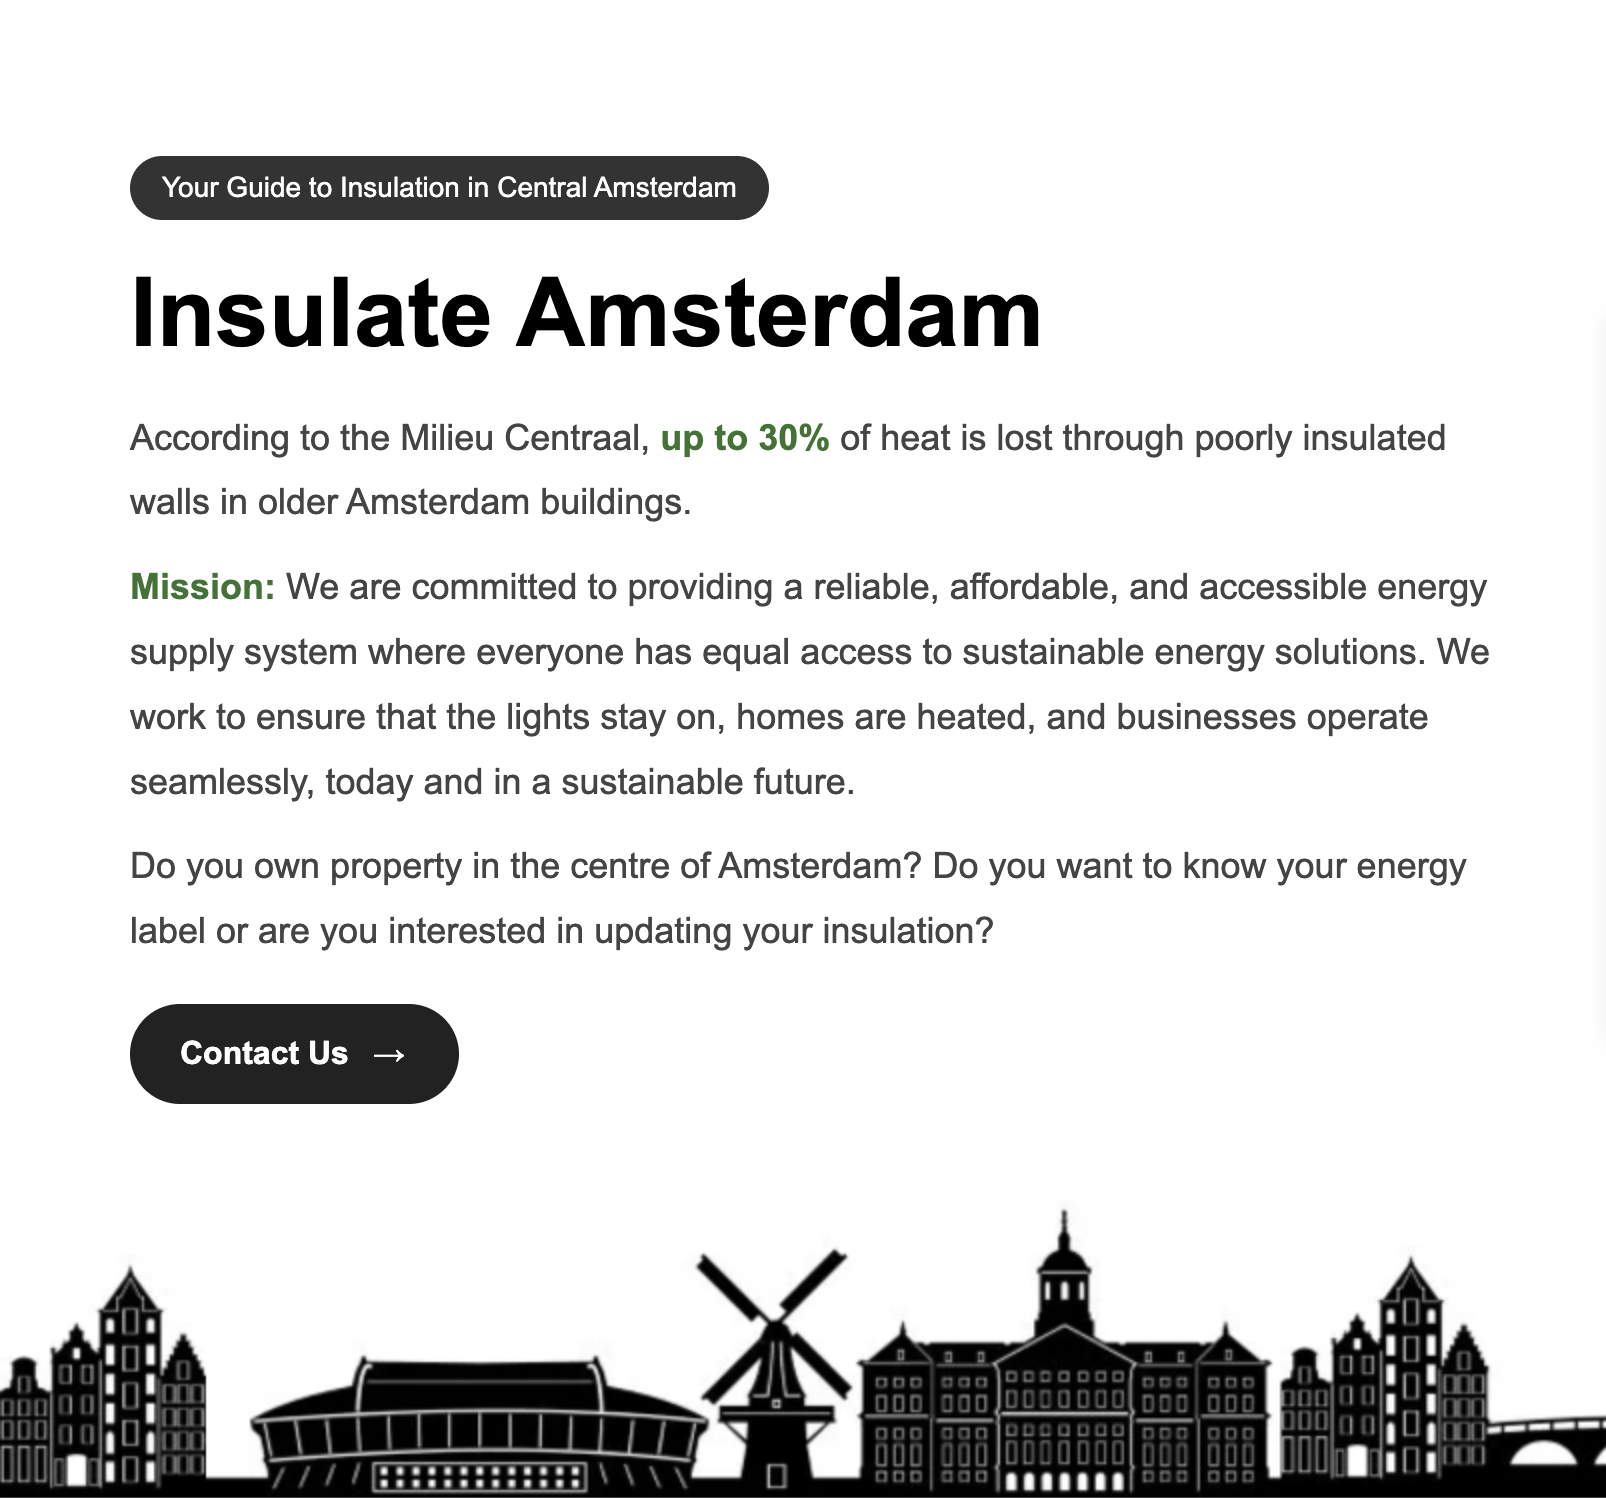
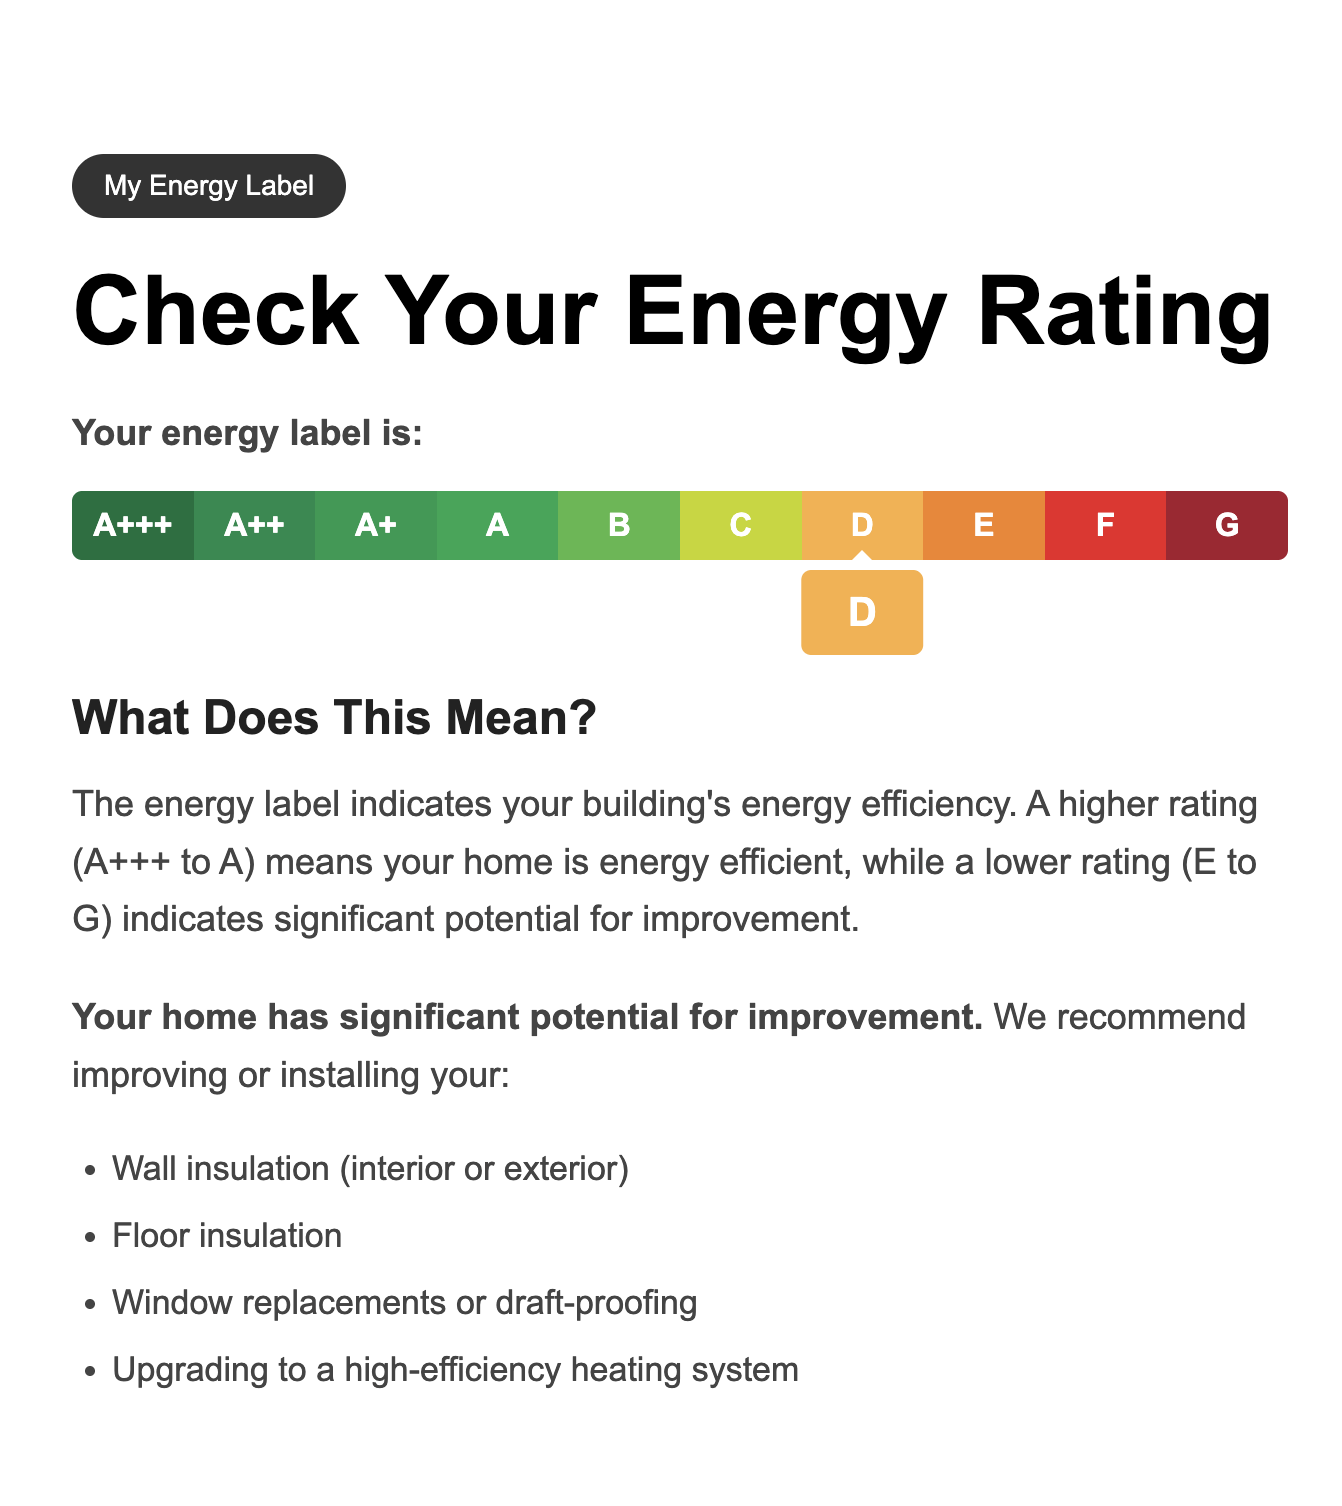
Fix

diff --git a/styles.css b/styles.css
@@ -343,7 +343,7 @@ a {
 
 .projects-grid {
   display: grid;
-  grid-template-columns: repeat(3, 1fr);
+  grid-template-columns: repeat(2, 1fr);
   gap: 2rem;
   align-items: stretch;
 }
@@ -352,7 +352,6 @@ a {
   flex-direction: column;
 }
 
-@media (max-width: 1023px) { .projects-grid { grid-template-columns: repeat(2, 1fr); } }
 @media (max-width: 639px)  { .projects-grid { grid-template-columns: 1fr; } }
 
 .project-card-link {
@@ -394,6 +393,7 @@ a {
 .thumb-1 { background: linear-gradient(135deg, #6b0f1a, #9e2a2b); }
 .thumb-2 { background: linear-gradient(135deg, #d57a66, #ffe1a8); color: var(--dark); }
 .thumb-3 { background: linear-gradient(135deg, #5f634f, #6b0f1a); color: var(--accent); }
+.thumb-4 { background: linear-gradient(135deg, #9e2a2b, #e09f3e); color: var(--bg); }
 
 .project-body {
   padding: 1.5rem;

diff --git a/index.html b/index.html
@@ -169,8 +169,6 @@
             </div>
           </div>
         </div>
-      </div>
-      </div>
 
         <div class="fade-up">
           <div class="project-card">
@@ -187,7 +185,8 @@
             </div>
           </div>
         </div>
-      </div>
+
+        </div>
       </div>
     </section>
 
